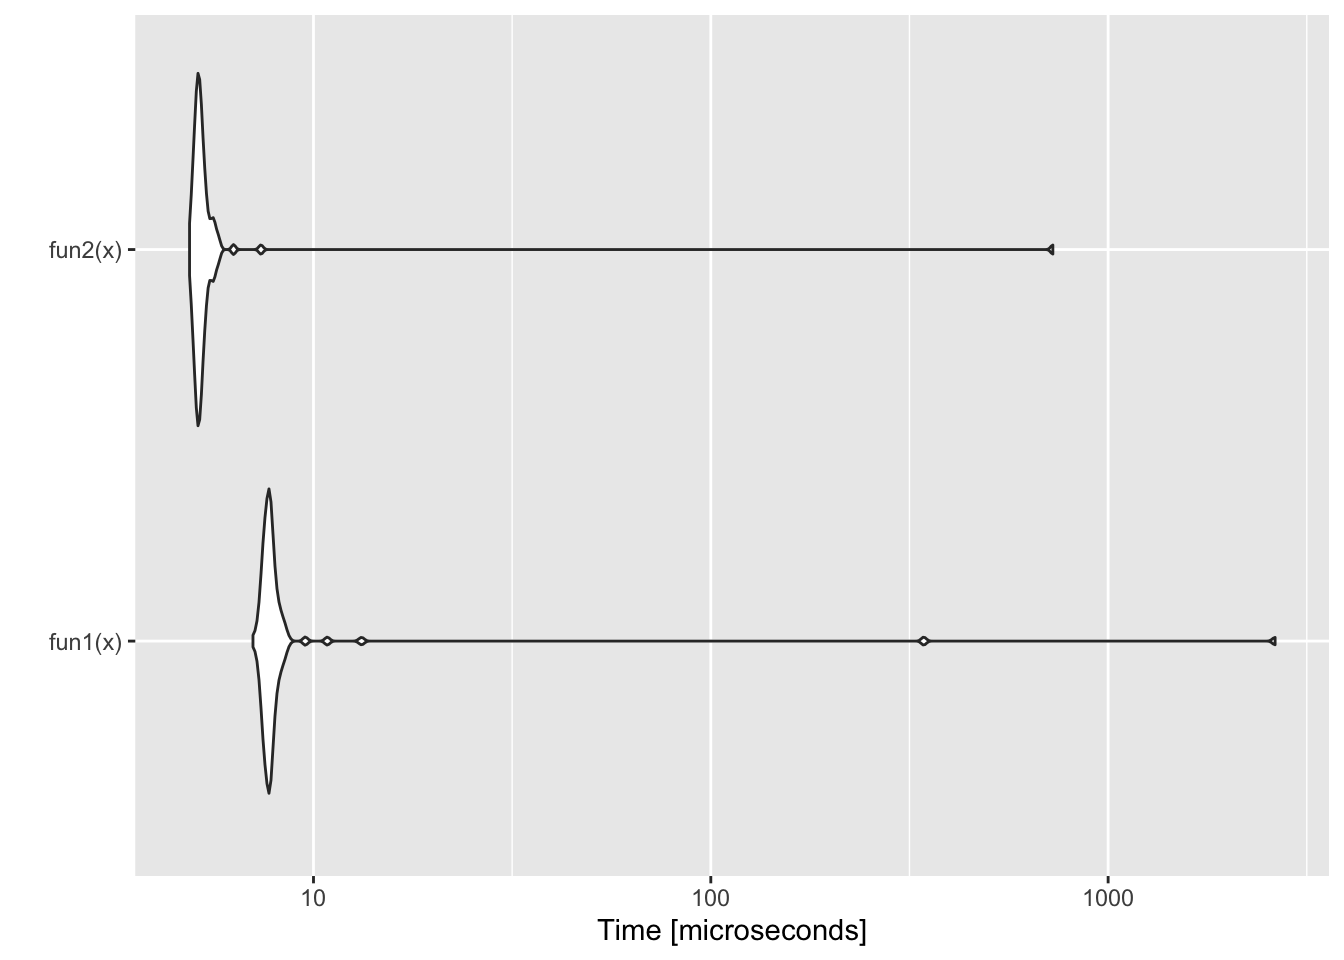
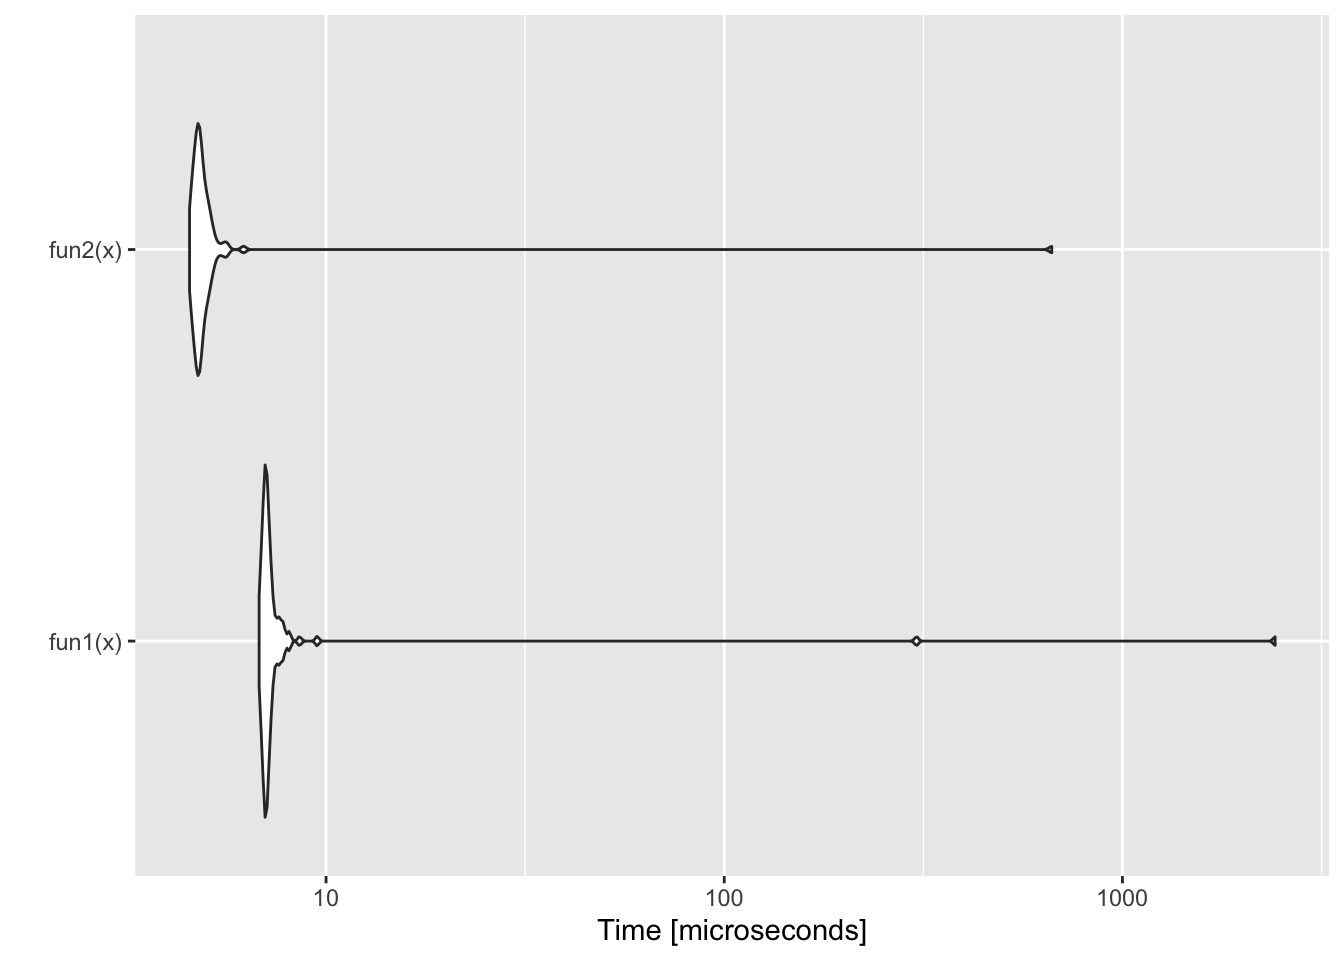
fix SardineForecast package

diff --git a/week8-adv-packages.html b/week8-adv-packages.html
@@ -716,9 +716,9 @@ for(i in 1:10000){ b &lt;- t(a)%*%a }
 Rprof()
 summaryRprof(tmp)$by.self</code></pre>
 <pre><code>##             self.time self.pct total.time total.pct
-## &quot;%*%&quot;            0.46    79.31       0.46     79.31
-## &quot;t&quot;              0.06    10.34       0.12     20.69
-## &quot;t.default&quot;      0.06    10.34       0.06     10.34</code></pre>
+## &quot;%*%&quot;            0.56    93.33       0.56     93.33
+## &quot;t&quot;              0.02     3.33       0.04      6.67
+## &quot;t.default&quot;      0.02     3.33       0.02      3.33</code></pre>
 <pre class="r"><code>Rprof(NULL) #stop profiling</code></pre>
 <p><strong>microbenchmark</strong></p>
 <p>This is a handy package for comparing speeds of code.</p>
@@ -728,7 +728,7 @@ res &lt;- microbenchmark(2 + 2, 2 + a, sum(2, a), sum(2, 2))
 ggplot2::autoplot(res)</code></pre>
 <pre><code>## Coordinate system already present. Adding new coordinate system, which will replace the existing one.</code></pre>
 <pre><code>## Warning: Transformation introduced infinite values in continuous y-axis</code></pre>
-<pre><code>## Warning: Removed 23 rows containing non-finite values (stat_ydensity).</code></pre>
+<pre><code>## Warning: Removed 17 rows containing non-finite values (stat_ydensity).</code></pre>
 <p><img src="week8-adv-packages_files/figure-html/unnamed-chunk-3-1.png" width="672" /></p>
 <p>This shows an example of code using <a href="https://www.datacamp.com/community/tutorials/pipe-r-tutorial">piping</a> (<code>%&gt;%</code>) versus without. This is why I do not use piping. It is slow and I do simulations and I want fast code.</p>
 <pre class="r"><code>library(magrittr)

diff --git a/week6-packages.html b/week6-packages.html
@@ -783,7 +783,7 @@ save(salmon, file=&quot;data/columbia-river-chinook-esu.rda&quot;)</code></pre>
 <div id="examples-of-real-data-packages" class="section level2">
 <h2>Examples of real data packages</h2>
 <ul>
-<li><a href="https://github.com/eeholmes/SardineForecast">SardineForecast</a> Note this is the repo I show in lecture but you won’t be able to see it yourself since it is private.</li>
+<li><a href="https://github.com/eeholmes/SardineForecast">SardineForecast</a> A complex package with lots of different types of data.</li>
 <li><a href="https://nwfsc-math-bio.github.io/VRData/">VRData</a> This is a data repo that I am developing for NWFSC application.</li>
 </ul>
 </div>
